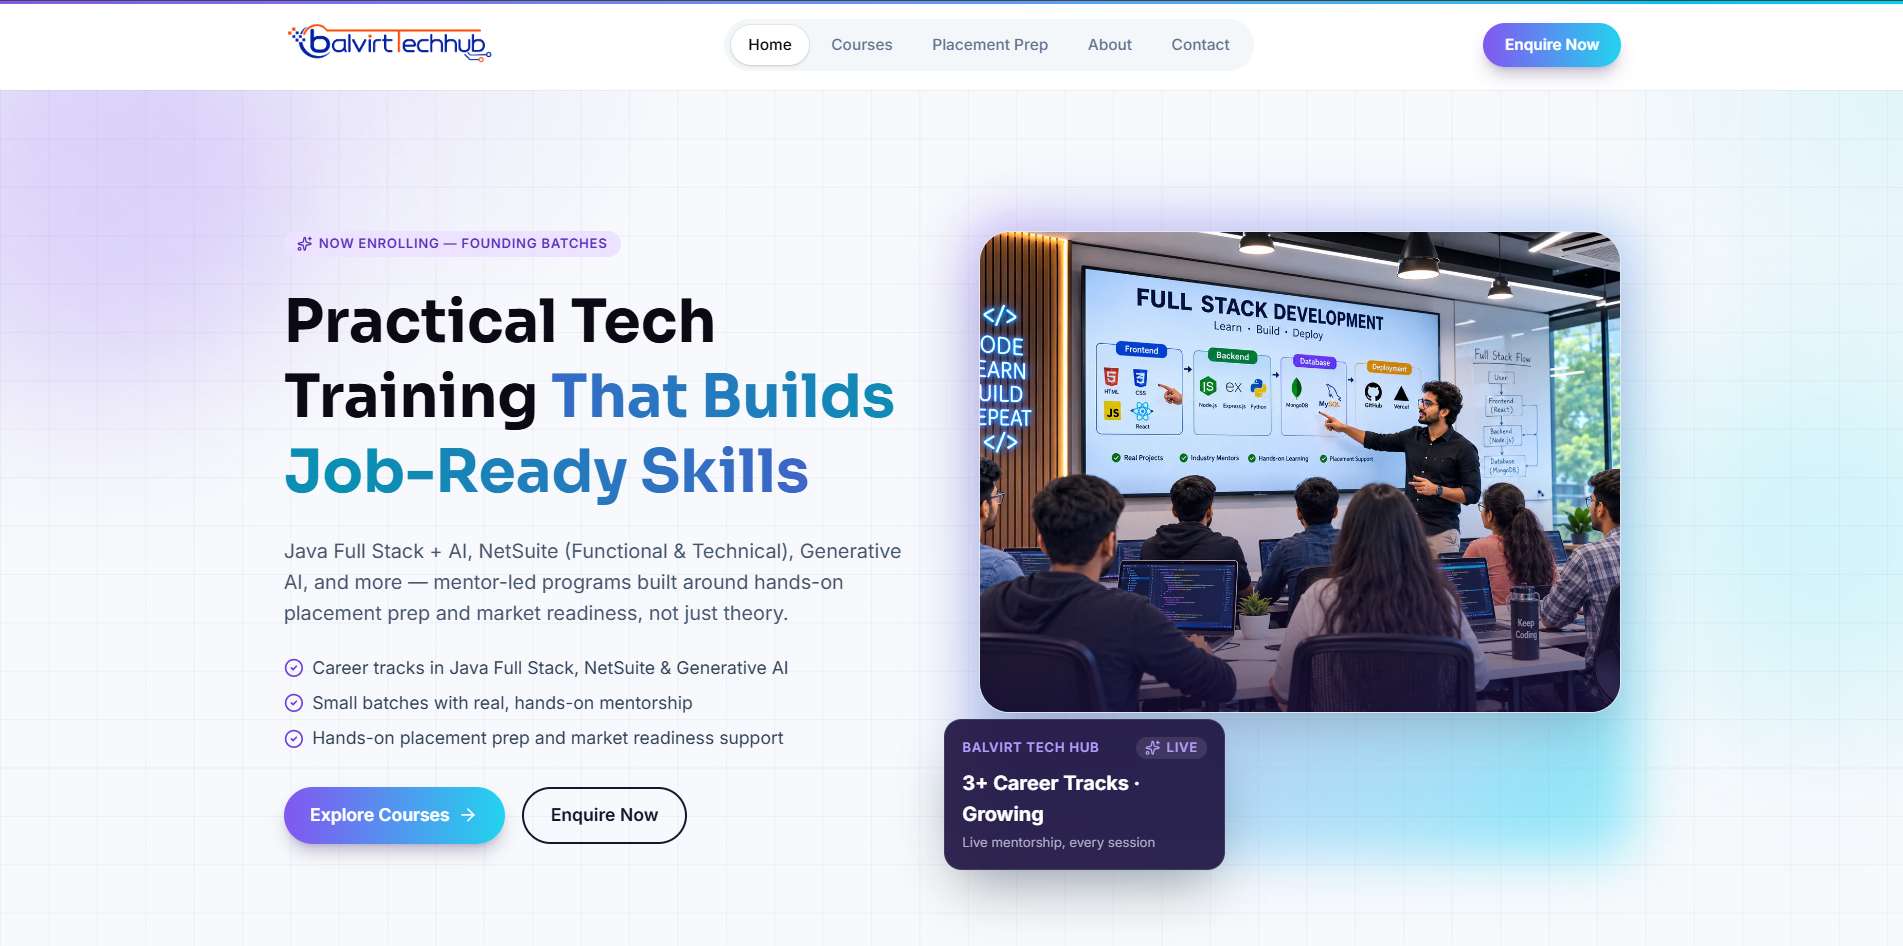
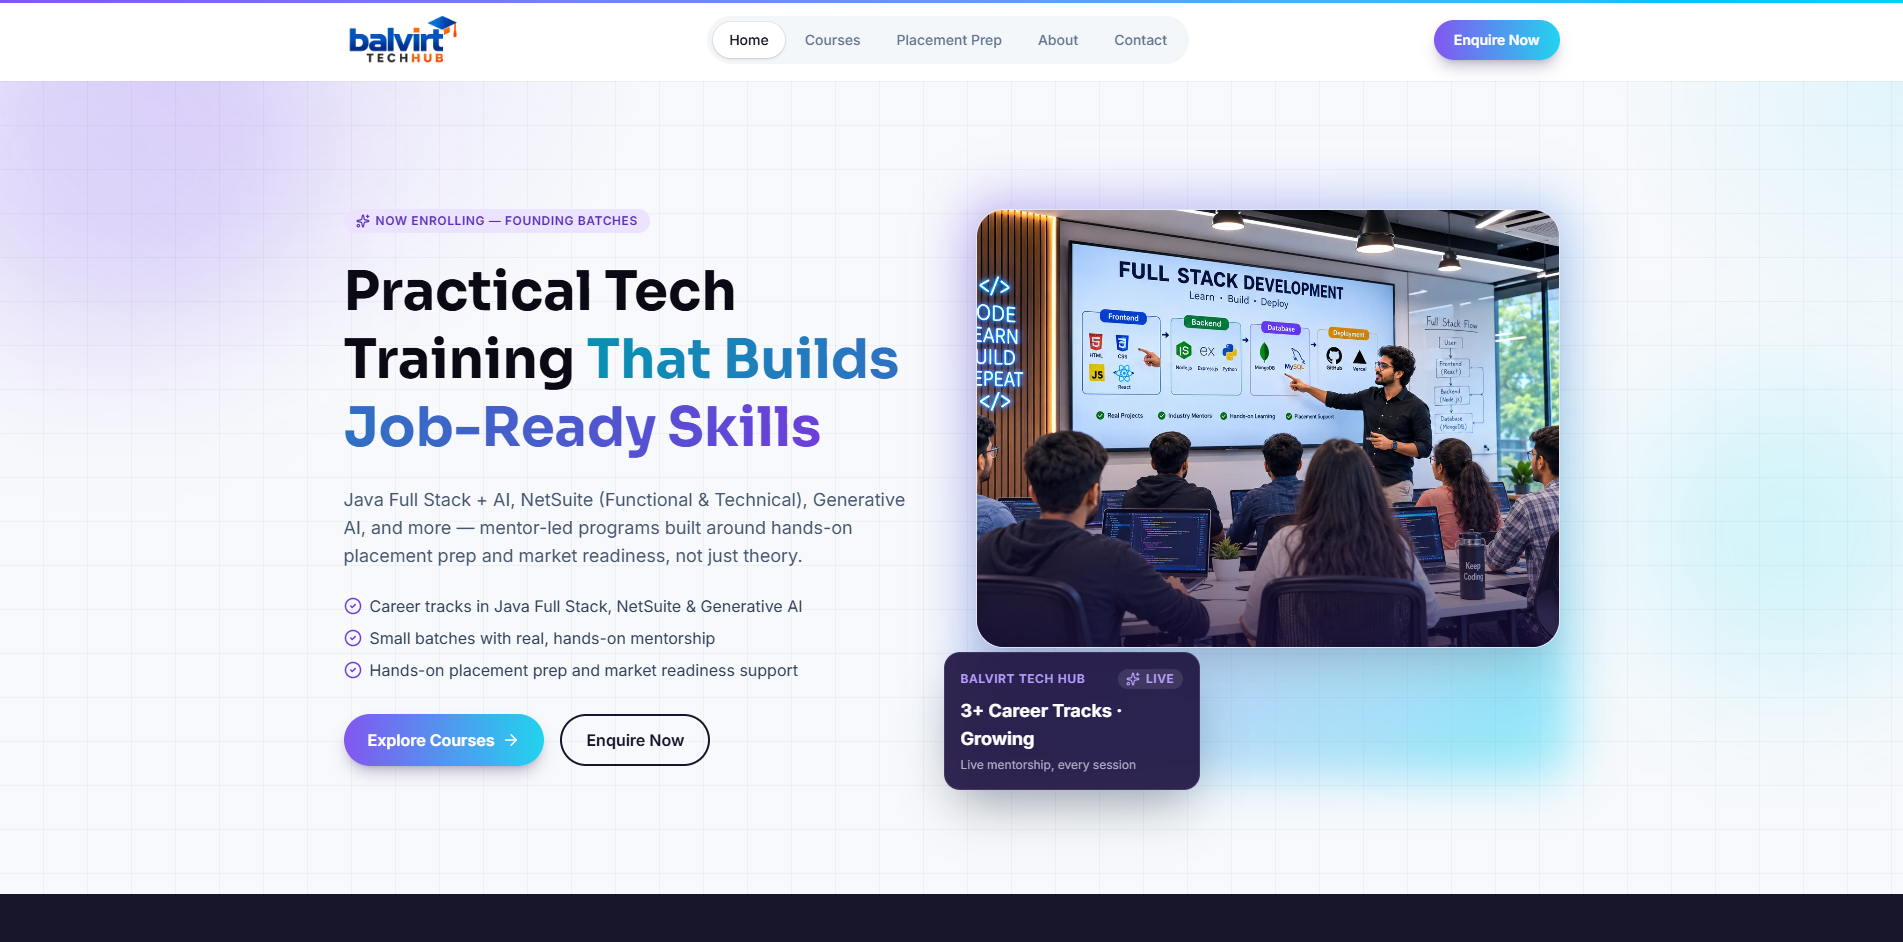
Update products and content

diff --git a/src/pages/Home.jsx b/src/pages/Home.jsx
@@ -8,7 +8,7 @@ import { INDUSTRIES, SITE, STATS, YEARS } from '../data/site'
 import { PRODUCTS, TECH_SERVICES } from '../data/company'
 
 const ROTATING = ['AI Solutions', 'NetSuite ERP', 'Automation', 'Custom Software', 'Web Platforms']
-const MARQUEE = ['AI Integrations', 'Workflow Automation', 'Oracle NetSuite', 'Custom Software', 'Custom Websites', 'Balsuite', 'Balfrevo', 'Layvora', 'Celigo iPaaS', 'Business Advisory']
+const MARQUEE = ['AI Integrations', 'Workflow Automation', 'Oracle NetSuite', 'Custom Software', 'Custom Websites', 'Balsuite', 'Freymora', 'Layvora', 'Celigo iPaaS', 'Business Advisory']
 
 const OFFERINGS = [
   { id: 'netsuite', icon: 'Rocket', title: 'Oracle NetSuite ERP', short: 'Implementation, customization, integration and 24/7 support from experienced consultants.' },
@@ -32,7 +32,7 @@ const JSON_LD = {
       url: SITE.url,
       logo: `${SITE.url}/images/logo1.png`,
       image: `${SITE.url}/images/og-share.jpg`,
-      description: 'Technology and consulting company offering AI integrations, automated workflows, custom websites and software, app development, Oracle NetSuite ERP services and its own products: Balsuite, Balfrevo and Layvora.',
+      description: 'Technology and consulting company offering AI integrations, automated workflows, custom websites and software, app development, Oracle NetSuite ERP services and its own products: Balsuite, Freymora and Layvora.',
       email: SITE.email,
       telephone: SITE.phone,
       founder: { '@type': 'Person', name: 'Ramdas Darade', jobTitle: 'Founder & CEO' },
@@ -148,7 +148,7 @@ export default function Home() {
       <Seo
         path="/"
         title="Balvirt | AI, Custom Software & NetSuite ERP Consulting"
-        description="AI integrations, workflow automation, custom software and Oracle NetSuite ERP consulting in India. Explore our products: Balsuite, Balfrevo and Layvora."
+        description="AI integrations, workflow automation, custom software and Oracle NetSuite ERP consulting in India. Explore our products: Balsuite, Freymora and Layvora."
         jsonLd={JSON_LD}
       />
       <Hero />
@@ -162,7 +162,7 @@ export default function Home() {
             <h2 className="mt-5 text-3xl font-bold leading-tight sm:text-5xl">Expert consulting for <span className="text-gradient">AI, software &amp; ERP</span></h2>
             <div className="mt-6 space-y-4 leading-relaxed text-muted">
               <p>Balvirt helps businesses become Cloud-ready, Data-ready and AI-ready. We build AI integrations, automated workflows, custom websites and software, and give the consulting and business advice that keeps projects on track.</p>
-              <p>We also provide specialist Oracle NetSuite ERP consulting for Manufacturing, Retail, Wholesale and E-Commerce businesses, and we build and run our own products: Balsuite, Balfrevo and Layvora.</p>
+              <p>We also provide specialist Oracle NetSuite ERP consulting for Manufacturing, Retail, Wholesale and E-Commerce businesses, and we build and run our own products: Balsuite, Freymora and Layvora.</p>
               <p>With {YEARS}+ years of delivery experience and a 98% client satisfaction rate, we make sure every solution delivers measurable results and lasting value.</p>
             </div>
             <div className="mt-8 flex flex-wrap gap-4">

diff --git a/src/data/company.js b/src/data/company.js
@@ -116,9 +116,9 @@ export const PRODUCTS = [
     imageAlt: 'Balsuite dashboard showing projects, sprint velocity, team utilization and tasks',
   },
   {
-    id: 'balfrevo', name: 'Balfrevo', icon: 'Truck', category: 'Freight brokerage',
+    id: 'freymora', name: 'Freymora', icon: 'Truck', category: 'Freight brokerage',
     tagline: 'Simpler transport operations. Higher efficiency.',
-    desc: 'Balfrevo is a freight brokerage platform. Manage bookings, tracking, billing and vendor payments for all your branches in one platform.',
+    desc: 'Freymora is a freight brokerage platform. Manage bookings, tracking, billing and vendor payments for all your branches in one platform.',
     features: [
       ['Bookings and trips', 'Create loads and follow each trip from booked to invoiced'],
       ['Live trip status', 'Booked, dispatched, in transit, delivered and invoiced'],
@@ -130,9 +130,9 @@ export const PRODUCTS = [
     audience: 'Freight brokers and logistics businesses that want their whole operation in one system.',
     badges: ['Web platform', 'Multi-branch'],
     gradient: 'from-blue-600 to-cyan',
-    image: '/images/products/balfrevo.webp',
-    imageSm: '/images/products/balfrevo-sm.webp',
-    imageAlt: 'Balfrevo freight brokerage platform showing bookings, trip tracking, billing and vendor payments',
+    image: '/images/products/freymora.webp',
+    imageSm: '/images/products/freymora-sm.webp',
+    imageAlt: 'Freymora freight brokerage platform showing bookings, trip tracking, billing and vendor payments',
   },
   {
     id: 'layvora', name: 'Layvora', icon: 'Egg', category: 'Poultry management',
@@ -166,6 +166,6 @@ export const INSTITUTE = {
     ['Industry mentors', 'Learn from working practitioners'],
     ['Placement preparation', 'Support for interviews and market readiness'],
   ],
-  image: '/images/institute/balvirttechhub.webp',
+  image: '/images/institute/balvirttechhub-v2.webp',
   imageAlt: 'Balvirttechhub website showing a full stack development training session',
 }

diff --git a/src/pages/Services.jsx b/src/pages/Services.jsx
@@ -14,7 +14,7 @@ const FAQS = [
   ['How long does a NetSuite implementation take?', 'A typical NetSuite ERP implementation for an SME takes 2–4 months, depending on business complexity, the number of customizations and the integrations required. Balvirt uses a phased methodology to minimize operational disruption and ensure a smooth go-live.'],
   ['Do you provide post-go-live NetSuite support?', 'Yes. Balvirt provides comprehensive post-implementation NetSuite support, including 24/7 system monitoring, bug fixes, SuiteScript enhancements, user training and ongoing performance optimization to maximize your ERP investment.'],
   ['Can Balvirt integrate NetSuite with our existing systems?', 'Absolutely. We use Celigo iPaaS, custom SuiteScript integrations and RESTlets to connect NetSuite with e-commerce platforms, CRM systems, WMS, EDI, payment gateways and third-party APIs, creating a unified, automated data ecosystem.'],
-  ['Do you build custom software, or only configure existing platforms?', 'Both. We build custom web, mobile and enterprise software and AI models when off-the-shelf tools do not fit, and we also offer our own ready-to-use products such as Balsuite, Balfrevo and Layvora.'],
+  ['Do you build custom software, or only configure existing platforms?', 'Both. We build custom web, mobile and enterprise software and AI models when off-the-shelf tools do not fit, and we also offer our own ready-to-use products such as Balsuite, Freymora and Layvora.'],
   ['What makes Balvirt different?', `Balvirt combines deep Oracle NetSuite expertise with AI, automation and custom software delivery, and runs its own products. You get one team that can advise, build and support, backed by ${YEARS}+ years, 10+ SME clients and a 98% satisfaction rate across 7 countries.`],
 ]
 

diff --git a/index.html b/index.html
@@ -13,7 +13,7 @@
     <meta property="og:image" content="https://balvirt.com/images/og-share.jpg" />
     <meta name="twitter:card" content="summary_large_image" />
     <title>Balvirt | AI, Custom Software & NetSuite ERP Consulting</title>
-    <meta name="description" content="AI integrations, workflow automation, custom software and Oracle NetSuite ERP consulting in India. Explore our products: Balsuite, Balfrevo and Layvora." />
+    <meta name="description" content="AI integrations, workflow automation, custom software and Oracle NetSuite ERP consulting in India. Explore our products: Balsuite, Freymora and Layvora." />
     <link rel="preconnect" href="https://fonts.googleapis.com" />
     <link rel="preconnect" href="https://fonts.gstatic.com" crossorigin />
     <link href="https://fonts.googleapis.com/css2?family=Inter:wght@400;500;600&family=Sora:wght@500;600;700;800&display=swap" rel="stylesheet" />

diff --git a/src/pages/Products.jsx b/src/pages/Products.jsx
@@ -37,8 +37,8 @@ export default function Products() {
     <>
       <Seo
         path="/products"
-        title="Software Products: Balsuite, Balfrevo, Layvora | Balvirt"
-        description="Balsuite business management platform, Balfrevo freight brokerage system and Layvora poultry farm management app, built by Balvirt."
+        title="Software Products: Balsuite, Freymora, Layvora | Balvirt"
+        description="Balsuite business management platform, Freymora freight brokerage system and Layvora poultry farm management app, built by Balvirt."
         jsonLd={jsonLd}
       />
       <PageHero eyebrow="Our products" title="Ready-to-use software," highlight="built by Balvirt" subtitle="Beyond consulting, we build and run our own platforms for business management, logistics and farming, so you can start with proven software instead of from scratch.">

diff --git a/src/pages/About.jsx b/src/pages/About.jsx
@@ -11,7 +11,7 @@ const OFFER = [
   'AI integrations and automated workflows that remove manual work and save hours every week',
   'Custom websites, software and AI models built around your process',
   'Oracle NetSuite implementation, customization, integration and 24/7 support',
-  'Technology consulting and business advisory, plus our own products (Balsuite, Balfrevo and Layvora) and Balvirttechhub, our training and career institute',
+  'Technology consulting and business advisory, plus our own products (Balsuite, Freymora and Layvora) and Balvirttechhub, our training and career institute',
 ]
 const PILLARS = [
   { icon: Zap, t: 'Fast implementation', d: 'Quick, efficient deployment of NetSuite solutions tailored to your business needs.' },

diff --git a/src/components/Footer.jsx b/src/components/Footer.jsx
@@ -98,7 +98,7 @@ export default function Footer() {
                 <img src="/images/logo1.png" alt="Balvirt" className="h-9 w-auto" />
               </Link>
               <p className={`mt-5 max-w-sm text-sm leading-relaxed ${MUTED}`}>
-                AI integrations, automated workflows, custom software and Oracle NetSuite ERP consulting, plus our own products: Balsuite, Balfrevo and Layvora.
+                AI integrations, automated workflows, custom software and Oracle NetSuite ERP consulting, plus our own products: Balsuite, Freymora and Layvora.
               </p>
               <div className="mt-6 flex gap-3">
                 {SOCIALS.map(([I, href, label]) => (

diff --git a/src/pages/Careers.jsx b/src/pages/Careers.jsx
@@ -168,7 +168,7 @@ export default function Careers() {
             </Reveal>
             <Reveal delay={0.12}>
               <div className="glass glow-border relative overflow-hidden rounded-[2rem] p-3">
-                <img src={INSTITUTE.image} alt={INSTITUTE.imageAlt} width="1600" height="795" loading="lazy" className="h-auto w-full rounded-[1.5rem]" />
+                <img src={INSTITUTE.image} alt={INSTITUTE.imageAlt} width="1600" height="792" loading="lazy" className="h-auto w-full rounded-[1.5rem]" />
               </div>
             </Reveal>
           </div>

diff --git a/src/data/site.js b/src/data/site.js
@@ -40,7 +40,7 @@ export const NAV = [
     label: 'Products', to: '/products',
     children: [
       ['Balsuite', '/products#balsuite'],
-      ['Balfrevo', '/products#balfrevo'],
+      ['Freymora', '/products#freymora'],
       ['Layvora', '/products#layvora'],
     ],
   },
